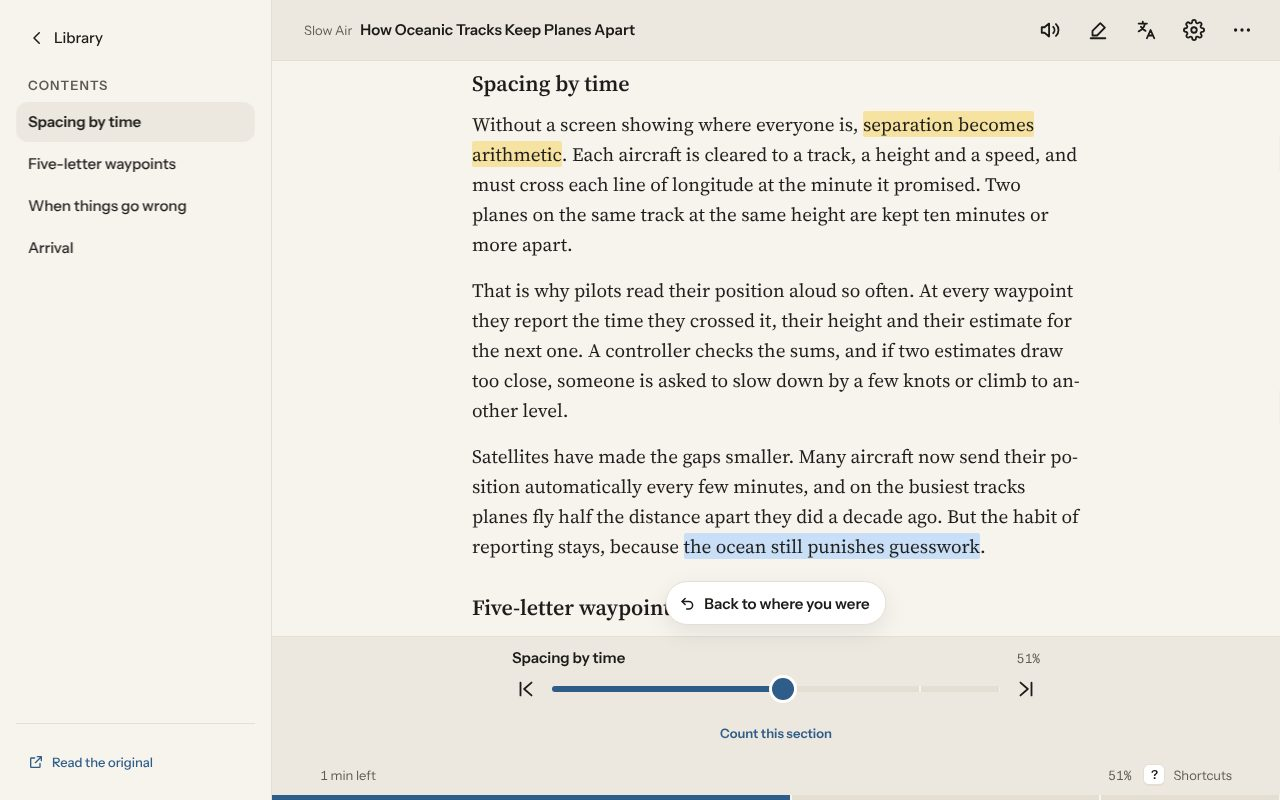
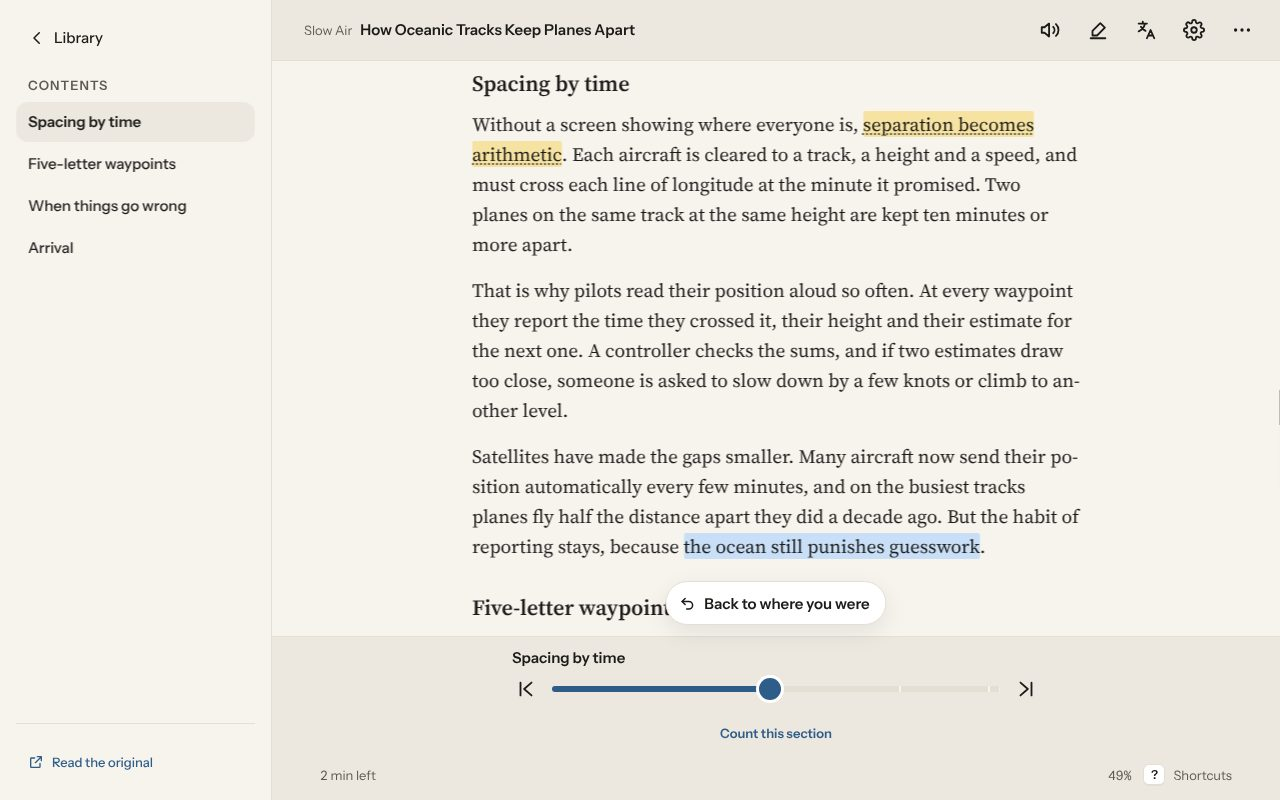
1.45.3: one bar while it grows, no seam, no second percent, Back glides (#173)
Claude-Session: https://claude.ai/code/session_01CFeKrkVkdz4DzVxEKxBzd7

diff --git a/index.html b/index.html
@@ -8,8 +8,8 @@
   <link rel="manifest" href="manifest.json">
   <link rel="icon" href="icon.svg" type="image/svg+xml">
   <link rel="apple-touch-icon" href="icons/apple-touch-icon.png">
-  <link rel="stylesheet" href="src/fonts.css?v=1.45.2">
-  <link rel="stylesheet" href="src/styles.css?v=1.45.2">
+  <link rel="stylesheet" href="src/fonts.css?v=1.45.3">
+  <link rel="stylesheet" href="src/styles.css?v=1.45.3">
 </head>
 <body>
   <div class="app" id="libraryView">
@@ -147,7 +147,7 @@
         <svg width="18" height="18" viewBox="0 0 24 24" fill="none" stroke="currentColor" stroke-width="2" stroke-linecap="round" stroke-linejoin="round" aria-hidden="true"><path d="M9 14l-4-4 4-4"></path><path d="M5 10h9a5 5 0 0 1 0 10h-3"></path></svg>Back to where you were
       </button>
       <div class="skim-bar" id="skimBar" role="group" aria-label="Skim" hidden>
-        <div class="skim-head"><span class="skim-part" id="skimPart" dir="auto"></span><span class="skim-where" id="skimWhere"></span></div>
+        <div class="skim-head"><span class="skim-part" id="skimPart" dir="auto"></span></div>
         <div class="skim-row">
           <button class="icon-btn" id="skimPrev" type="button" aria-label="Previous chapter">
             <svg width="22" height="22" viewBox="0 0 24 24" fill="none" stroke="currentColor" stroke-width="2" stroke-linecap="round" stroke-linejoin="round" aria-hidden="true"><path d="M6 5v14M18 5l-8 7 8 7"></path></svg>
@@ -366,30 +366,30 @@
     </div>
   </section>
 
-  <script src="src/platform.js?v=1.45.2"></script>
-  <script src="src/motion.js?v=1.45.2"></script>
-  <script src="src/vendor/Readability.js?v=1.45.2"></script>
-  <script src="src/store.js?v=1.45.2"></script>
-  <script src="src/save.js?v=1.45.2"></script>
-  <script src="src/feeds.js?v=1.45.2"></script>
-  <script src="src/backup.js?v=1.45.2"></script>
-  <script src="src/imports.js?v=1.45.2"></script>
-  <script src="src/dict.js?v=1.45.2"></script>
-  <script src="src/sync.js?v=1.45.2"></script>
-  <script src="src/drive.js?v=1.45.2"></script>
-  <script src="src/qr.js?v=1.45.2"></script>
-  <script src="src/stats.js?v=1.45.2"></script>
-  <script src="src/epub.js?v=1.45.2"></script>
-  <script src="src/files.js?v=1.45.2"></script>
-  <script src="src/pdf.js?v=1.45.2"></script>
-  <script src="src/reader.js?v=1.45.2"></script>
-  <script src="src/app.js?v=1.45.2"></script>
-  <script src="src/app-reader.js?v=1.45.2"></script>
-  <script src="src/app-library.js?v=1.45.2"></script>
-  <script src="src/app-saving.js?v=1.45.2"></script>
-  <script src="src/app-places.js?v=1.45.2"></script>
-  <script src="src/app-settings.js?v=1.45.2"></script>
-  <script src="src/app-lock.js?v=1.45.2"></script>
-  <script src="src/app-start.js?v=1.45.2"></script>
+  <script src="src/platform.js?v=1.45.3"></script>
+  <script src="src/motion.js?v=1.45.3"></script>
+  <script src="src/vendor/Readability.js?v=1.45.3"></script>
+  <script src="src/store.js?v=1.45.3"></script>
+  <script src="src/save.js?v=1.45.3"></script>
+  <script src="src/feeds.js?v=1.45.3"></script>
+  <script src="src/backup.js?v=1.45.3"></script>
+  <script src="src/imports.js?v=1.45.3"></script>
+  <script src="src/dict.js?v=1.45.3"></script>
+  <script src="src/sync.js?v=1.45.3"></script>
+  <script src="src/drive.js?v=1.45.3"></script>
+  <script src="src/qr.js?v=1.45.3"></script>
+  <script src="src/stats.js?v=1.45.3"></script>
+  <script src="src/epub.js?v=1.45.3"></script>
+  <script src="src/files.js?v=1.45.3"></script>
+  <script src="src/pdf.js?v=1.45.3"></script>
+  <script src="src/reader.js?v=1.45.3"></script>
+  <script src="src/app.js?v=1.45.3"></script>
+  <script src="src/app-reader.js?v=1.45.3"></script>
+  <script src="src/app-library.js?v=1.45.3"></script>
+  <script src="src/app-saving.js?v=1.45.3"></script>
+  <script src="src/app-places.js?v=1.45.3"></script>
+  <script src="src/app-settings.js?v=1.45.3"></script>
+  <script src="src/app-lock.js?v=1.45.3"></script>
+  <script src="src/app-start.js?v=1.45.3"></script>
 </body>
 </html>

diff --git a/src/styles.css b/src/styles.css
@@ -902,7 +902,10 @@ html.native .find-bar { padding-top: calc(var(--s-2) + env(safe-area-inset-top))
 .read-ticks i, .skim-ticks i { position: absolute; top: 0; bottom: 0; width: 2px; margin-inline-start: -1px; background: var(--bg); }
 .skim-bar {
   padding: var(--s-3) calc(var(--gutter) + var(--s-2)) 0;
-  background: var(--bar); color: var(--ink); box-shadow: 0 -1px 0 var(--line);
+  background: var(--bar); color: var(--ink);
+  /* The second shadow fills under it: the spring overshoots by a pixel
+     or so, which left a seam over the row while it grew (1.45.3). */
+  box-shadow: 0 -1px 0 var(--line), 0 8px 0 var(--bar);
   font: 400 var(--fs-meta)/var(--lh-meta) var(--sans); font-variant-numeric: tabular-nums;
   pointer-events: auto; -webkit-user-select: none; user-select: none;
   animation: skim-up var(--spring-control-ms, 300ms) var(--spring-control, ease-out);
@@ -912,7 +915,10 @@ html.native .find-bar { padding-top: calc(var(--s-2) + env(safe-area-inset-top))
 .reader.bar-away .skim-bar { display: none; }
 .skim-head { display: flex; align-items: baseline; gap: var(--s-3); padding: 0 var(--s-2); }
 .skim-part { flex: 1; min-width: 0; overflow: hidden; text-overflow: ellipsis; white-space: nowrap; font-size: var(--fs-label); font-weight: 600; }
-.skim-where { flex: none; color: var(--muted); }
+.skim-head:has(.skim-part:empty) { visibility: hidden; }
+/* One bar while it's grown: the line under the row keeps its room. */
+.reader.skim-open .read-progress { background: var(--bar); }
+.reader.skim-open .read-progress > * { visibility: hidden; }
 .skim-row { display: flex; align-items: center; gap: var(--s-1); }
 .skim-track { position: relative; flex: 1; min-width: 0; height: var(--tap); touch-action: none; cursor: pointer; }
 .skim-track:focus-visible { outline: 2px solid var(--accent); outline-offset: 2px; border-radius: var(--r-sm); }

diff --git a/src/reader.js b/src/reader.js
@@ -400,7 +400,7 @@
     return "";
   }
   // Scrolls (or turns) to a spot; false when it names nothing here.
-  function toSpot(s) {
+  function toSpot(s, smooth) {
     const m = /^(\d+)\/(\d+)(c?)$/.exec(s || "");
     const el = m && anchors[Number(m[1])];
     if (!el || !doc) return false;
@@ -408,15 +408,20 @@
     if (isPaged()) { goPage(pageOf(el), true); return true; }
     const edge = m[3] ? midLine() : topEdge();
     const rct = el.getBoundingClientRect();
-    w.scrollTo(0, Math.max(0, w.scrollY + rct.top + rct.height * Number(m[2]) / 100 - edge));
+    w.scrollTo({ top: Math.max(0, w.scrollY + rct.top + rct.height * Number(m[2]) / 100 - edge), behavior: smooth ? "smooth" : "auto" });
+    // A long clip's chunks get their real height on the way, so it's
+    // put right once it's there.
+    if (smooth) w.addEventListener("scrollend", () => toSpot(s), { once: true });
     return true;
   }
-  // Goes to where another device got to (app.js, the furthest-read toast).
-  function jump(at, s) {
+  // Goes to where another device got to (app.js, the furthest-read
+  // toast), or back to where you were, gliding there in Scroll (1.45.3).
+  function jump(at, s, smooth) {
     if (!doc) return;
-    if (toSpot(s)) return;
+    smooth = !!smooth && !C.motion.reduced();
+    if (toSpot(s, smooth)) return;
     const w = frame.contentWindow;
-    if (isPaged()) relayout(at); else w.scrollTo(0, at * (doc.documentElement.scrollHeight - w.innerHeight));
+    if (isPaged()) relayout(at); else w.scrollTo({ top: at * (doc.documentElement.scrollHeight - w.innerHeight), behavior: smooth ? "smooth" : "auto" });
   }
 
   // How far down the page the reader is, 0 to 1; a page shorter than the

diff --git a/src/app-reader.js b/src/app-reader.js
@@ -2495,7 +2495,7 @@ $("jumpBack").addEventListener("click", () => {
   closeSkim();
   jumpFrom = null;
   $("jumpBack").hidden = true;
-  if (from && state.open) { C.reader.jump(from.at, from.spot); voiceHere(); }
+  if (from && state.open) { C.reader.jump(from.at, from.spot, true); voiceHere(1000); }
 });
 
 // ---- Skim (1.45.0, from KOReader; in the bar since 1.45.2) ----
@@ -2513,10 +2513,10 @@ const SKIM_HOLD = 60000;
 let skim = null;
 const skimOn = () => !!state.open && !state.sheet;
 let voiceTimer = 0;
-function voiceHere() {
+function voiceHere(wait = 400) {
   clearTimeout(voiceTimer);
   if (!aloudHere() || !aloudOn()) return;
-  voiceTimer = setTimeout(() => { if (aloudHere() && aloudOn() && !(skim && skim.dragging)) startAloud(); }, 400);
+  voiceTimer = setTimeout(() => { if (aloudHere() && aloudOn() && !(skim && skim.dragging)) startAloud(); }, wait);
 }
 const skimUp = () => !$("skimBar").hidden;
 function skimHolds(p, f, s) {
@@ -2592,7 +2592,6 @@ function skimPaint(at) {
   $("skimKnob").style.insetInlineStart = (at * 100).toFixed(2) + "%";
   const [a, b] = skimText(at);
   $("skimPart").textContent = b ? a : "";
-  $("skimWhere").textContent = b || a;
   const track = $("skimTrack");
   track.setAttribute("aria-valuenow", String(Math.round(at * 100)));
   track.setAttribute("aria-valuetext", skimText(at).join(", "));

diff --git a/src/app.js b/src/app.js
@@ -9,7 +9,7 @@
 // only use what an earlier part, or its own, has declared. A part's
 // functions can call into any part, since nothing is tapped until all of
 // them have loaded. app-start.js runs last and starts things up.
-const APP_VERSION = "1.45.2";
+const APP_VERSION = "1.45.3";
 window.Waypage.version = APP_VERSION;
 
 const C = window.Waypage;

diff --git a/sw.js b/sw.js
@@ -7,7 +7,7 @@
 // release's changed files new URLs. Third-party requests are never touched.
 //
 // ASSETS is also exactly what tools/build-www.js copies into the app.
-const CACHE = "waypage-v90";
+const CACHE = "waypage-v91";
 const ASSETS = [
   "./", "./index.html",
   "./src/fonts.css", "./src/styles.css", "./src/reader.css",

diff --git a/CHANGELOG.md b/CHANGELOG.md
@@ -2,6 +2,19 @@
 
 All notable changes to Carry-on. Newest first.
 
+## [1.45.3] - 2026-10-30
+
+### Fixed
+- The grown bottom bar no longer shows the percent twice; it's on the
+  row under it.
+- No more thin gap flashing between the skim and the row while the bar
+  grows.
+- One bar while it's grown: the thin line along the bottom steps aside
+  for the skim's slider.
+
+### Changed
+- Back to where you were glides there in Scroll, instead of jumping.
+
 ## [1.45.2] - 2026-10-30
 
 ### Changed
